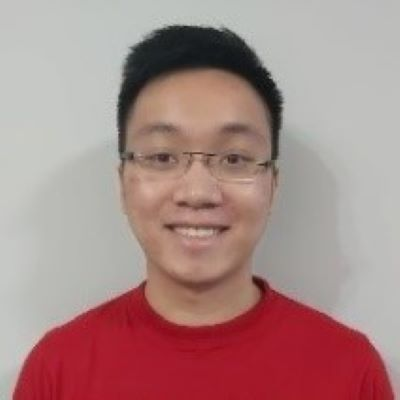
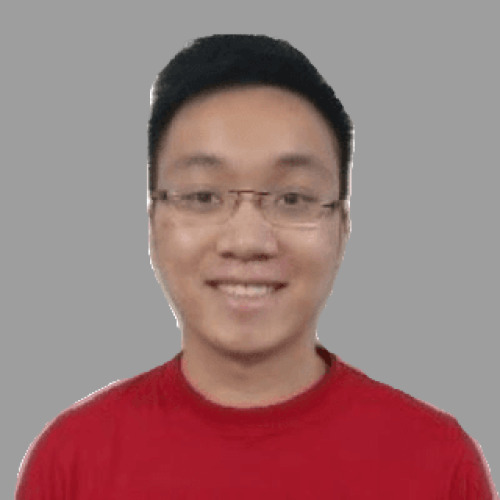
changed a colour and some images

diff --git a/styles/styles.css b/styles/styles.css
@@ -298,7 +298,7 @@ header .wrapper h1, header .wrapper h3 {
 }
 
 nav {
-  background-color: darkviolet;
+  background-color: #71499d;
   display: -webkit-box;
   display: -ms-flexbox;
   display: flex;
@@ -358,7 +358,7 @@ nav .menu li a:hover {
   border-radius: 20px;
   -webkit-box-shadow: 0 0 20px darkorange;
           box-shadow: 0 0 20px darkorange;
-  background: darkviolet;
+  background: #71499d;
   color: white;
 }
 .oneProject img {
@@ -448,8 +448,8 @@ nav .menu li a:hover {
 }
 
 .contact {
-  background: -webkit-gradient(linear, left top, left bottom, from(pink), to(darkviolet));
-  background: linear-gradient(pink, darkviolet);
+  background: -webkit-gradient(linear, left top, left bottom, from(pink), to(#71499d));
+  background: linear-gradient(pink, #71499d);
 }
 .contact .content {
   display: -webkit-box;
@@ -519,8 +519,8 @@ nav .menu li a:hover {
   width: 100%;
 }
 .contact .content form button {
-  background: -webkit-gradient(linear, left top, left bottom, from(cornflowerblue), to(darkviolet));
-  background: linear-gradient(cornflowerblue, darkviolet);
+  background: -webkit-gradient(linear, left top, left bottom, from(cornflowerblue), to(#71499d));
+  background: linear-gradient(cornflowerblue, #71499d);
   color: white;
   padding: 20px;
   margin: 20px;
@@ -556,7 +556,7 @@ nav .menu li a:hover {
 }
 
 footer {
-  background-color: darkviolet;
+  background-color: #71499d;
   color: white;
   padding: 25px 0;
 }

diff --git a/index.html b/index.html
@@ -111,7 +111,7 @@
 
         <!-- Juno Assignment 2 -->
         <div class="oneProject" id="assignmentTwo">
-          <img src="./styles/sass/assets/projectOne.jpg" alt="Homepage of Textilee website">
+          <img src="./styles/sass/assets/assignmentTwo.png" alt="Homepage of Textilee website">
 
           <div class="info">
             <h3>Textilee w/ JavaScript features</h3>

diff --git a/styles/sass/partials/_variables.scss b/styles/sass/partials/_variables.scss
@@ -2,7 +2,7 @@
 $black: black;
 $white: white;
 $silver: silver;
-$purple: darkviolet;
+$purple: #71499d;
 $gold: gold;
 $darkOrange: darkorange;
 $blue: cornflowerblue;
